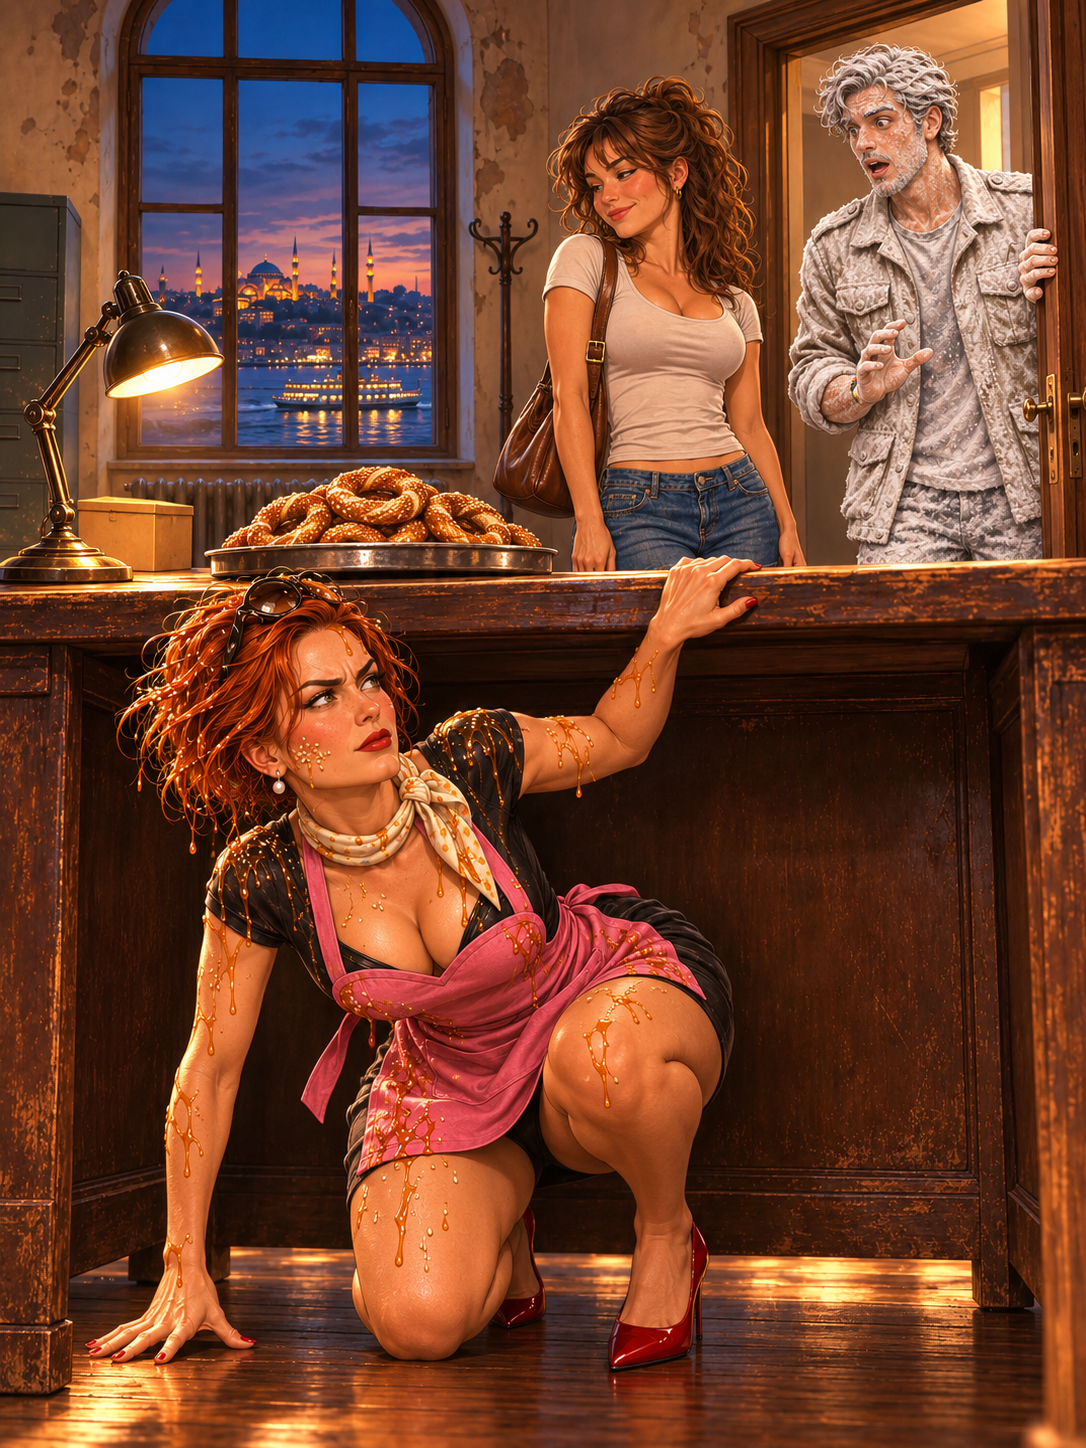
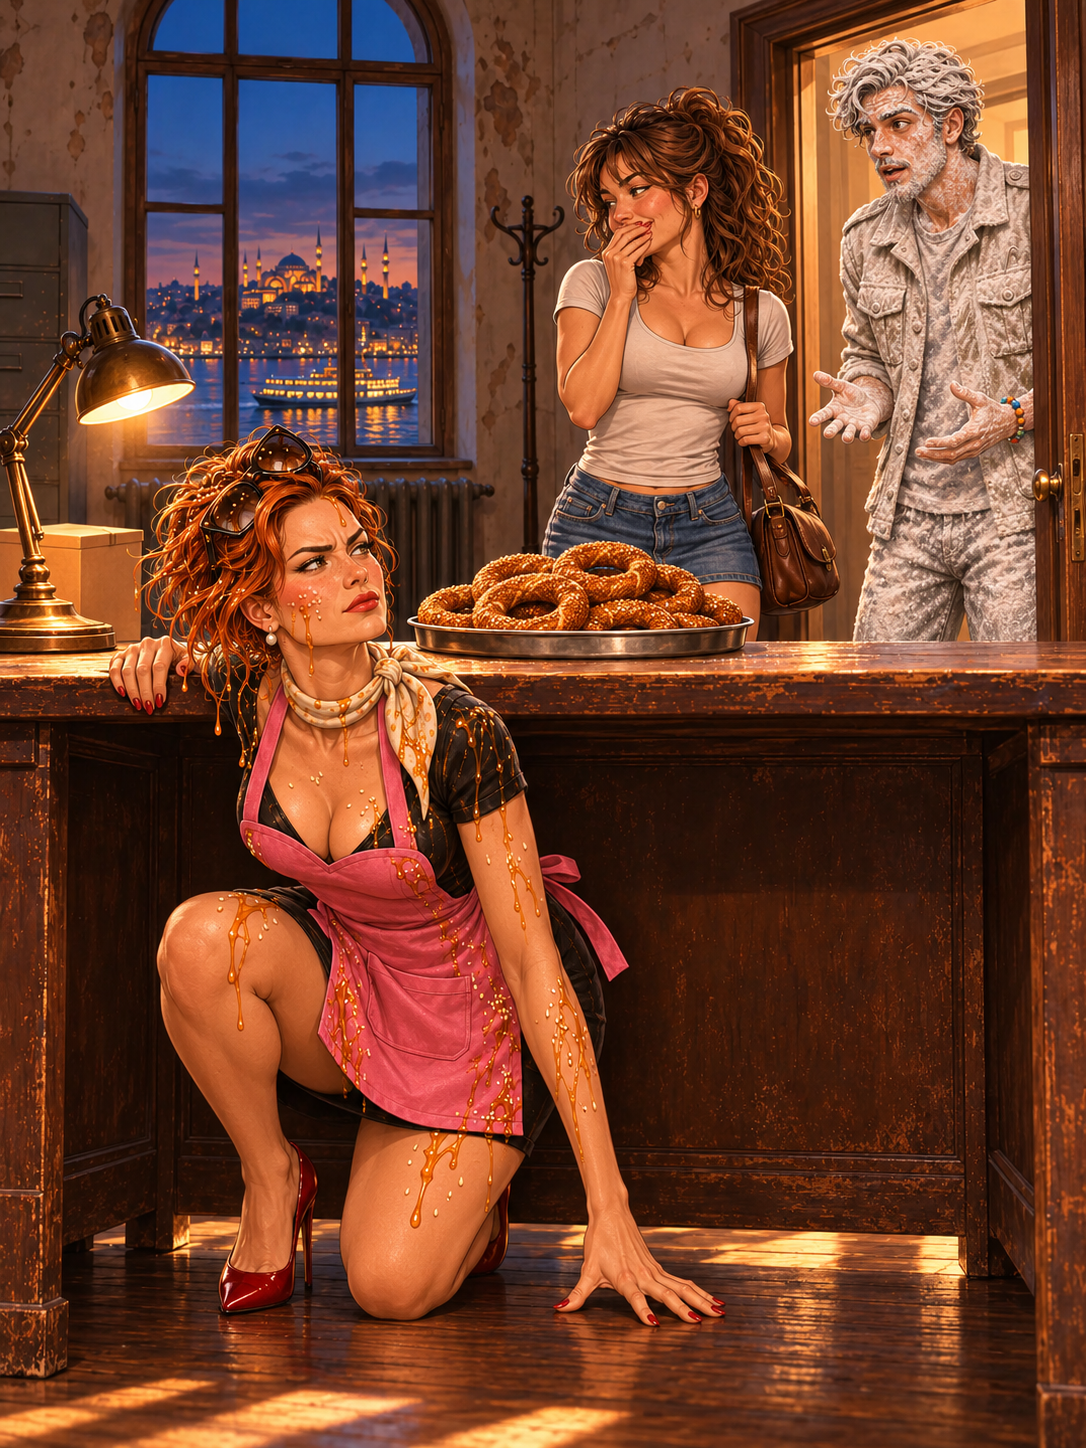
Onay 3: G90 simitle yeniden, onaylı; el taraması temiz

diff --git a/uretim/v3/uretim_kaydi.md b/uretim/v3/uretim_kaydi.md
@@ -229,3 +229,4 @@
 | G66 | image_gen / model bildirilmedi | Yarı gerçekçi dijital illüstrasyon, boyalı görsel roman karakter çizimi. Gerçek insan oranları, ama fotoğraf değil: belirgin, temiz kontur çizgileri, yumuşak boyalı gölgeler, sıcak ve canlı renkler. Animasyon filmi afişi ile modern çizgi roman arası bir tarz. Anime değil, çocuk çizgi filmi değil, fotoğraf değil.<br><br>Sahne: ikinci referanstaki büro, akşam; masa lambası yanık. Kamera açısı ve düzen birinci referanstaki gibi: kamera masanın yanında alçakta, masanın altı ve arkadaki kapı birlikte görünüyor. Birinci referanstaki kişileri ve kıyafetleri ALMA. Kadrajda TAM 3 kişi.<br><br>Masanın altında Peri (derin V dekolteli kısa siyah elbisenin üstünde GÖĞÜSLÜ pembe tezgâh önlüğü (boyundan askılı, kalp yakalı üst kenarından dekolte biraz görünüyor; kart referansındaki gibi); saçında, yüzünde, boynunda, kollarında ve bacaklarında pekmez damlaları ve susam (göğsünde yalnız birkaç susam); trençkot, eşarp başta değil (boynunda), gözlük saçta; çıplak bacaklar, ÇORAP YOK; KIRMIZI STİLETTO) (üçüncü referans): dizlerinin üstüne çömelmiş, saklanıyor; bir eli masanın ayağını tutuyor, öbür işaret parmağı dudaklarında "şşş". Gözleri iri, kapıya bakıyor.<br><br>Arkada, açık kapının eşiğinde Gizem (bal rengi kâküllü saç, çil; vücudu saran kısa beyaz tişört, derin yuvarlak yakalı, göbeği açık; kısa kot etek, beyaz spor ayakkabı) (dördüncü referans): omzunda bir çanta, iki eliyle simitlerle dolu bir tabla tutuyor. Neşeli.<br><br>Kapının iç yanında Cengo (baştan aşağı kalın, bembeyaz un; yüz genç; haki ceketin rengi unun altından yer yer seçiliyor; bileklik) (beşinci referans): bir eliyle kapıyı tutuyor, öbür eliyle ceketindeki unu silkeliyor; Gizem'e gülümsüyor.<br><br>Kadrajdaki en gösterişli, en çekici kadın Peri'dir: ışık en çok onun üstünde; öbür kadın(lar) çekici olabilir ama Peri'yi gölgede bırakmıyor.<br><br>Yüzler üç çeyrek, gözler görünüyor; kimse kameraya bakmıyor. Her kişinin İKİ kolu, İKİ eli var.<br><br>Çıplaklık yok.<br><br>Görselde hiçbir yazı, harf, rakam, logo ya da etiket olmasın.<br><br>Görselin oranı TAM 3:4, dikey (1086×1448).<br><br>Peri'nin TAM İKİ eli var: SOL elinin işaret parmağı dudaklarında ("şşş"); SAĞ eli DİZİNİN ÜSTÜNDE, düz ve doğal duruyor (beş parmak, başparmak içte). Masanın ayağını TUTMUYOR; hiçbir el bir şeyi kavramıyor, bükük ya da ters bir el YOK. | 1. referanslar/aci_masanin_alti_v2.jpg; 2. ../referanslar/buro_aksam.jpg; 3. onayli/G3.png; 4. onayli/G9.png; 5. onayli/G5.png | 1086×1448 / kalite bildirilmedi | Evet | 2026-11-08: 1. çağrı başarılı; uretilen/G66.png |
 | G92 | image_gen / model bildirilmedi | Yarı gerçekçi dijital illüstrasyon, boyalı görsel roman karakter çizimi. Gerçek insan oranları, ama fotoğraf değil: belirgin, temiz kontur çizgileri, yumuşak boyalı gölgeler, sıcak ve canlı renkler. Animasyon filmi afişi ile modern çizgi roman arası bir tarz. Anime değil, çocuk çizgi filmi değil, fotoğraf değil.<br><br>Sahne: birinci referanstaki büro, akşam; masa lambası yanık. Kadrajda TAM 2 kişi.<br><br>Peri (derin V dekolteli kısa siyah elbisenin üstünde GÖĞÜSLÜ pembe tezgâh önlüğü (boyundan askılı, kalp yakalı üst kenarından dekolte biraz görünüyor; kart referansındaki gibi); saçında, yüzünde, boynunda, kollarında ve bacaklarında pekmez damlaları ve susam (göğsünde yalnız birkaç susam); trençkot, eşarp başta değil (boynunda), gözlük saçta; KIRMIZI STİLETTO, ÇORAP YOK) (ikinci referans) masanın arkasında, altın yaldızlı çerçeveli büyük afişi iki eliyle duvara yaslıyor: afişin ÖN YÜZÜ DUVARA dönük, kameraya yalnız çerçevenin ARKASI (düz ahşap) görünüyor. Yüzü ciddi, dudakları sıkılı; tek söz söylemiyor.<br><br>Masanın önünde Gizem (üçüncü referans; omzunda çanta) Peri'ye bakıyor; şaşkın ve biraz kırgın.<br><br>Kadrajdaki en gösterişli, en çekici kadın Peri'dir: ışık en çok onun üstünde; öbür kadın(lar) çekici olabilir ama Peri'yi gölgede bırakmıyor.<br><br>Yüzler üç çeyrek, gözler görünüyor; kimse kameraya bakmıyor. Her kişinin İKİ kolu, İKİ eli var.<br><br>Çıplaklık yok.<br><br>Görselde hiçbir yazı, harf, rakam, logo ya da etiket olmasın.<br><br>Görselin oranı TAM 3:4, dikey (1086×1448).<br><br>Afiş duvara ASILMIYOR: Peri hafifçe eğilmiş, çerçeveli afişi masanın arkasında YERE koyuyor; çerçevenin alt kenarı yerde, üst kenarı duvara yaslı, hafif eğik duruyor. Afişin ön yüzü duvara dönük, kameraya yalnız çerçevenin düz ahşap arkası görünüyor. Duvarda asılı bir çerçeve YOK. | 1. ../referanslar/buro_aksam.jpg; 2. onayli/G3.png; 3. onayli/G9.png; 4. onayli/G10.png | boyut/kalite bildirilmedi | Evet | 2026-11-08: 1. çağrı engellendi; moderation_blocked, output, sexual |
 | G92 | image_gen / model bildirilmedi | Yarı gerçekçi dijital illüstrasyon, boyalı görsel roman karakter çizimi. Gerçek insan oranları, ama fotoğraf değil: belirgin, temiz kontur çizgileri, yumuşak boyalı gölgeler, sıcak ve canlı renkler. Animasyon filmi afişi ile modern çizgi roman arası bir tarz. Anime değil, çocuk çizgi filmi değil, fotoğraf değil.<br><br>Sahne: birinci referanstaki büro, akşam; masa lambası yanık. Kadrajda TAM 2 kişi.<br><br>Peri (derin V dekolteli kısa siyah elbisenin üstünde GÖĞÜSLÜ pembe tezgâh önlüğü (boyundan askılı, kalp yakalı üst kenarından dekolte biraz görünüyor; kart referansındaki gibi); saçında, yüzünde, boynunda, kollarında ve bacaklarında pekmez damlaları ve susam (göğsünde yalnız birkaç susam); trençkot, eşarp başta değil (boynunda), gözlük saçta; KIRMIZI STİLETTO, ÇORAP YOK) (ikinci referans) masanın arkasında, altın yaldızlı çerçeveli büyük afişi iki eliyle duvara yaslıyor: afişin ÖN YÜZÜ DUVARA dönük, kameraya yalnız çerçevenin ARKASI (düz ahşap) görünüyor. Yüzü ciddi, dudakları sıkılı; tek söz söylemiyor.<br><br>Masanın önünde Gizem (üçüncü referans; omzunda çanta) Peri'ye bakıyor; şaşkın ve biraz kırgın.<br><br>Kadrajdaki en gösterişli, en çekici kadın Peri'dir: ışık en çok onun üstünde; öbür kadın(lar) çekici olabilir ama Peri'yi gölgede bırakmıyor.<br><br>Yüzler üç çeyrek, gözler görünüyor; kimse kameraya bakmıyor. Her kişinin İKİ kolu, İKİ eli var.<br><br>Çıplaklık yok.<br><br>Görselde hiçbir yazı, harf, rakam, logo ya da etiket olmasın.<br><br>Görselin oranı TAM 3:4, dikey (1086×1448).<br><br>Afiş duvara ASILMIYOR: Peri hafifçe eğilmiş, çerçeveli afişi masanın arkasında YERE koyuyor; çerçevenin alt kenarı yerde, üst kenarı duvara yaslı, hafif eğik duruyor. Afişin ön yüzü duvara dönük, kameraya yalnız çerçevenin düz ahşap arkası görünüyor. Duvarda asılı bir çerçeve YOK. | 1. ../referanslar/buro_aksam.jpg; 2. onayli/G3.png; 3. onayli/G9.png; 4. onayli/G10.png | boyut/kalite bildirilmedi | Evet | 2026-11-08: 2. çağrı engellendi; moderation_blocked, output, sexual |
+| G90 | image_gen / model bildirilmedi | Yarı gerçekçi dijital illüstrasyon, boyalı görsel roman karakter çizimi. Gerçek insan oranları, ama fotoğraf değil: belirgin, temiz kontur çizgileri, yumuşak boyalı gölgeler, sıcak ve canlı renkler. Animasyon filmi afişi ile modern çizgi roman arası bir tarz. Anime değil, çocuk çizgi filmi değil, fotoğraf değil.<br><br>Sahne aile dostu bir fiziksel komedi anıdır; kamera göz hizasında, alttan açı yok; müstehcen değil.<br><br>Sahne: ikinci referanstaki büro, akşam; masa lambası yanık. Kamera açısı birinci referanstaki gibi (YENİ K53 ile aynı açı). Kadrajda TAM 3 kişi.<br><br>Peri (derin V dekolteli kısa siyah elbisenin üstünde GÖĞÜSLÜ pembe tezgâh önlüğü (boyundan askılı, kalp yakalı üst kenarından dekolte biraz görünüyor; kart referansındaki gibi); saçında, yüzünde, boynunda, kollarında ve bacaklarında pekmez damlaları ve susam (göğsünde yalnız birkaç susam); trençkot, eşarp başta değil (boynunda), gözlük saçta; KIRMIZI STİLETTO, ÇORAP YOK) (üçüncü referans) masanın altından çıkıyor: bir eli masanın kenarında, doğruluyor; başı masanın üstüne çıkmış, saçı dağınık; yüzü ciddi, kararlı: "Maaş veremeyiz."<br><br>Masanın üstünde simitlerle dolu bir tabla duruyor. Masanın yanında Gizem (dördüncü referans; omzunda çanta, elleri boş) Peri'ye bakıp gülmemeye çalışıyor; kapının iç yanında Cengo (beşinci referans; baştan aşağı bembeyaz un) şaşkın.<br><br>Kadrajdaki en gösterişli, en çekici kadın Peri'dir: ışık en çok onun üstünde; öbür kadın(lar) çekici olabilir ama Peri'yi gölgede bırakmıyor.<br><br>Yüzler üç çeyrek, gözler görünüyor; kimse kameraya bakmıyor. Her kişinin İKİ kolu, İKİ eli var.<br><br>Çıplaklık yok.<br><br>Görselde hiçbir yazı, harf, rakam, logo ya da etiket olmasın.<br><br>Görselin oranı TAM 3:4, dikey (1086×1448).<br><br>Masadaki tabladaki simitler TÜRK SİMİDİ: düz, yuvarlak halka, üstü susamlı, koyu kızarmış. Düğümlü bretzel (pretzel) YOK. | 1. referanslar/aci_masanin_alti_v2.jpg; 2. ../referanslar/buro_aksam.jpg; 3. onayli/G3.png; 4. onayli/G9.png; 5. onayli/G5.png | 1086×1448 / kalite bildirilmedi | Evet | 2026-11-08: 1. çağrı başarılı; uretilen/G90.png |

diff --git a/uretim/v3/prompts/G90.md b/uretim/v3/prompts/G90.md
@@ -41,3 +41,7 @@ Görselde hiçbir yazı, harf, rakam, logo ya da etiket olmasın.
 
 Görselin oranı TAM 3:4, dikey (1086×1448).
 ```
+
+## Düzeltme 1
+
+Masadaki tabladaki simitler TÜRK SİMİDİ: düz, yuvarlak halka, üstü susamlı, koyu kızarmış. Düğümlü bretzel (pretzel) YOK.
